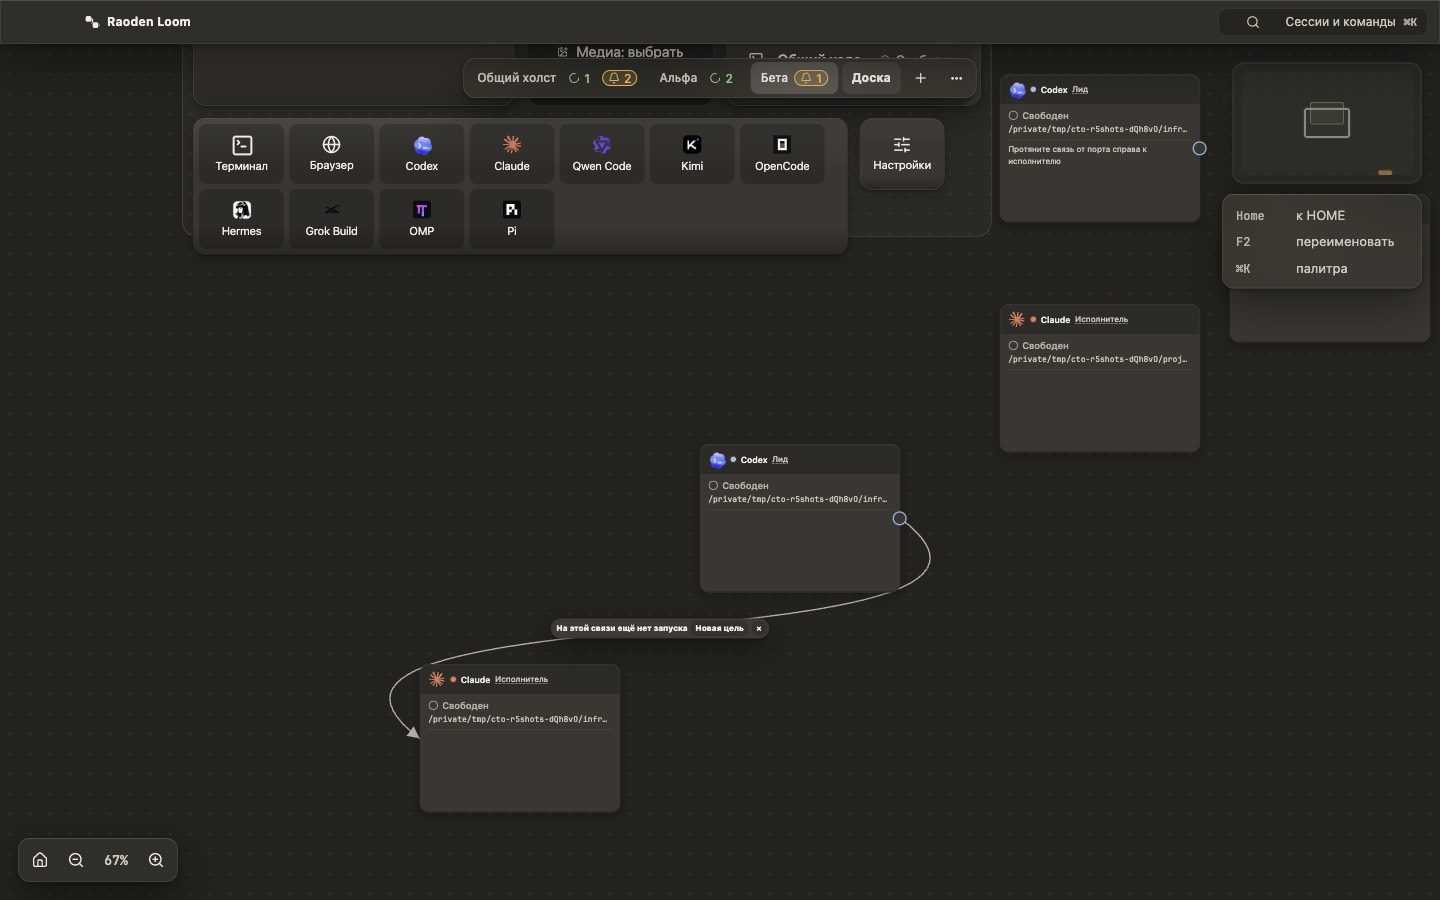
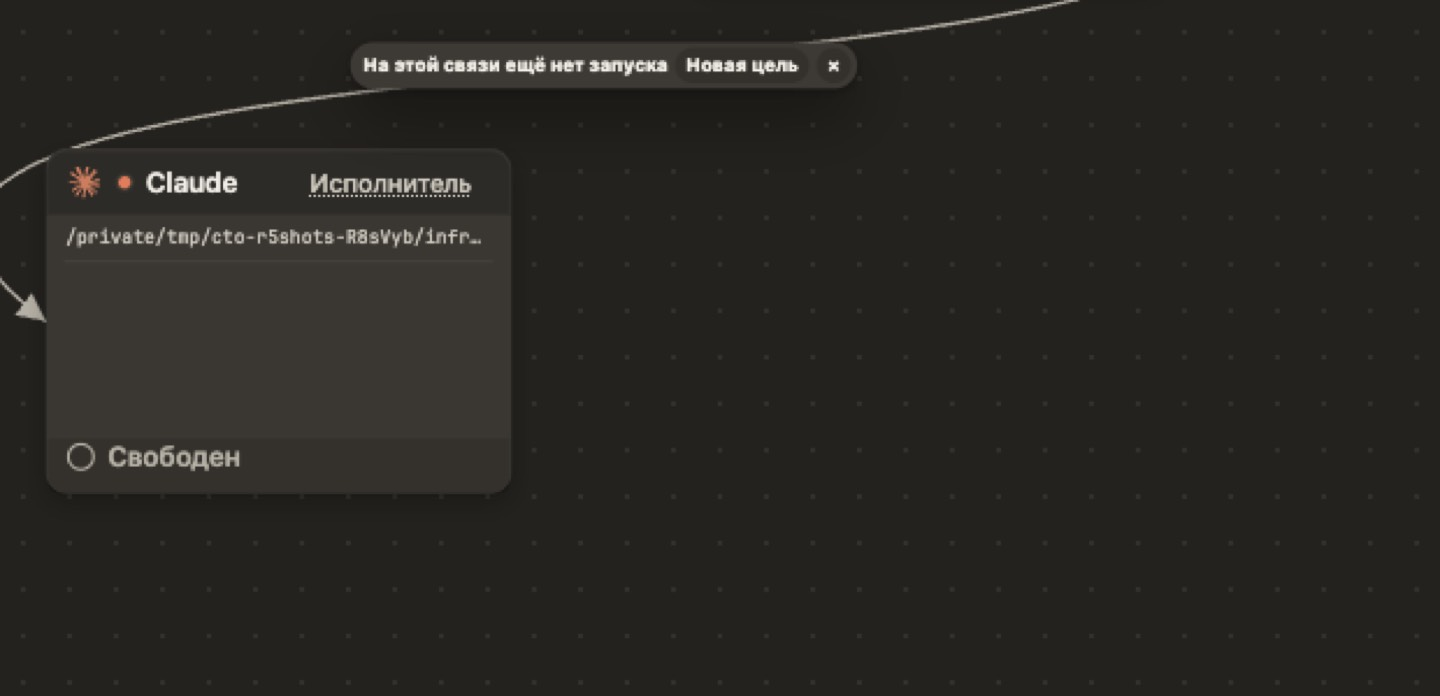
feat(r12a): summary below 0.4, 100% scenes, reduce/browser-hidden/refused scenes, pairs 20/21

diff --git a/src/renderer/src/styles/app.css b/src/renderer/src/styles/app.css
@@ -2168,10 +2168,6 @@ button { border: 0; }
 [data-zoomed] .terminal-card__actions button, [data-zoomed] .agent-card__close, [data-zoomed] .agent-card__expand, [data-zoomed] .sticky-note-card__close, [data-zoomed] .browser-card__hide { width: calc(20px * var(--iz)); height: calc(20px * var(--iz)); flex-basis: calc(20px * var(--iz)); border-radius: calc(5px * var(--iz)); }
 [data-zoomed] .terminal-card__status { font-size: calc(11px * var(--iz)); padding: 0 calc(8px * var(--iz)); }
 [data-zoomed] .terminal-card__restart { font-size: calc(11px * var(--iz)); padding: 0 calc(6px * var(--iz)); }
-/* an agent's status leaves the body for a footer of the terminal's format */
-[data-zoomed].agent-card .agent-card__body { padding-bottom: calc(24px * var(--iz) + .4em); }
-[data-zoomed].agent-card .agent-card__status { position: absolute; left: 0; right: 0; bottom: 0; z-index: 1; height: calc(24px * var(--iz)); padding: 0 calc(8px * var(--iz)); display: flex; align-items: center; gap: calc(6px * var(--iz)); overflow: hidden; border-top: 1px solid var(--border); border-radius: 0 0 13px 13px; background: var(--surface-2-b); font-size: calc(11px * var(--iz)); white-space: nowrap; }
-[data-zoomed].agent-card .agent-card__time { display: none; }
 .sticky-note-card__editor { font-size: calc(14px * var(--app-ui-scale, 1)); }
 /* R12b: a task card is the title, the status line, one line of substance and the actions; the rest opens under «Details» */
 .board-task__more { display: flex; flex-direction: column; gap: .3em; }

diff --git a/src/renderer/src/features/orchestration/AgentCard.tsx b/src/renderer/src/features/orchestration/AgentCard.tsx
@@ -141,7 +141,7 @@ export function AgentCard(props: AgentCardProps): React.JSX.Element {
         {card.role === "lead" && !props.linked && !message && state === "idle" && <p className="agent-card__hint" data-agent-port-hint>{t(locale, "orchCardPortHint")}</p>}
         {message && <div className={`agent-card__message agent-card__message--${message.tone}`} role={message.tone === "error" ? "alert" : "status"}>{message.text}</div>}
         {/* semantic zoom: far out the card keeps its lines and gives the wheel back to the canvas */}
-        {!compact && zoom >= 0.5 && props.hasRun && <CardFeed locale={locale} entries={props.activity} role={card.role} height={size.height} />}
+        {!compact && zoom >= 0.4 && props.hasRun && <CardFeed locale={locale} entries={props.activity} role={card.role} height={size.height} />}
         {confirming && (
           <div className="agent-card__confirm" role="alertdialog" aria-label={t(locale, "orchDeleteCard")}>
             <span>{t(locale, "orchDeleteCardLinked")}</span>

diff --git a/src/renderer/src/features/browser/BrowserCard.tsx b/src/renderer/src/features/browser/BrowserCard.tsx
@@ -97,8 +97,8 @@ export function BrowserCard({
   const [panel, setPanel] = useState<BrowserPanel>(null);
   const [dialogPrompt, setDialogPrompt] = useState("");
   const [freezeFrame, setFreezeFrame] = useState<BrowserCanvasFreezeFrameEvent | null>(null);
-  const summaryMode = zoom < 0.5;
-  const summaryScale = summaryMode ? Math.min(2.5, Math.max(1, 0.5 / zoom)) : 1;
+  const summaryMode = zoom < 0.4; // SPEC 11.2 / mock 21: the body shows at 45%, the summary at 28%
+  const summaryScale = summaryMode ? Math.min(2.5, Math.max(1, 0.4 / zoom)) : 1;
   const activeAgents = useMemo(
     () => mergeAgents(activeTab?.agents ?? [], browser.agents.filter((agent) => agent.currentTabId === activeTab?.id)),
     [activeTab?.agents, activeTab?.id, browser.agents]

diff --git a/src/renderer/src/features/plugins/PluginCanvasCard.tsx b/src/renderer/src/features/plugins/PluginCanvasCard.tsx
@@ -90,8 +90,8 @@ export function PluginCanvasCard({
   const [position, setPosition] = useState(initialBounds.position);
   const [size, setSize] = useState(initialBounds.size);
   const liveBounds = useRef<SessionBounds>(initialBounds);
-  const summaryMode = zoom < 0.5;
-  const summaryScale = summaryMode ? Math.min(2.5, Math.max(1, 0.5 / zoom)) : 1;
+  const summaryMode = zoom < 0.4; // SPEC 11.2 / mock 21: the body shows at 45%, the summary at 28%
+  const summaryScale = summaryMode ? Math.min(2.5, Math.max(1, 0.4 / zoom)) : 1;
 
   useEffect(() => {
     const bounds = constrainPluginResize(

diff --git a/src/renderer/src/features/terminal/TerminalCard.tsx b/src/renderer/src/features/terminal/TerminalCard.tsx
@@ -126,7 +126,7 @@ export function TerminalCard({
   const [size, setSize] = useState(session.size);
   const [restarting, setRestarting] = useState(false);
   const liveBounds = useRef<SessionBounds>({ position: session.position, size: session.size });
-  const summaryMode = zoom < 0.5;
+  const summaryMode = zoom < 0.4; // SPEC 11.2 / mock 21: the body shows at 45%, the summary at 28%
   const summaryScale = summaryMode ? 1 / zoom : 1; // the summary is in screen px (SPEC 11.2)
 
   restartAction.current = async () => {
